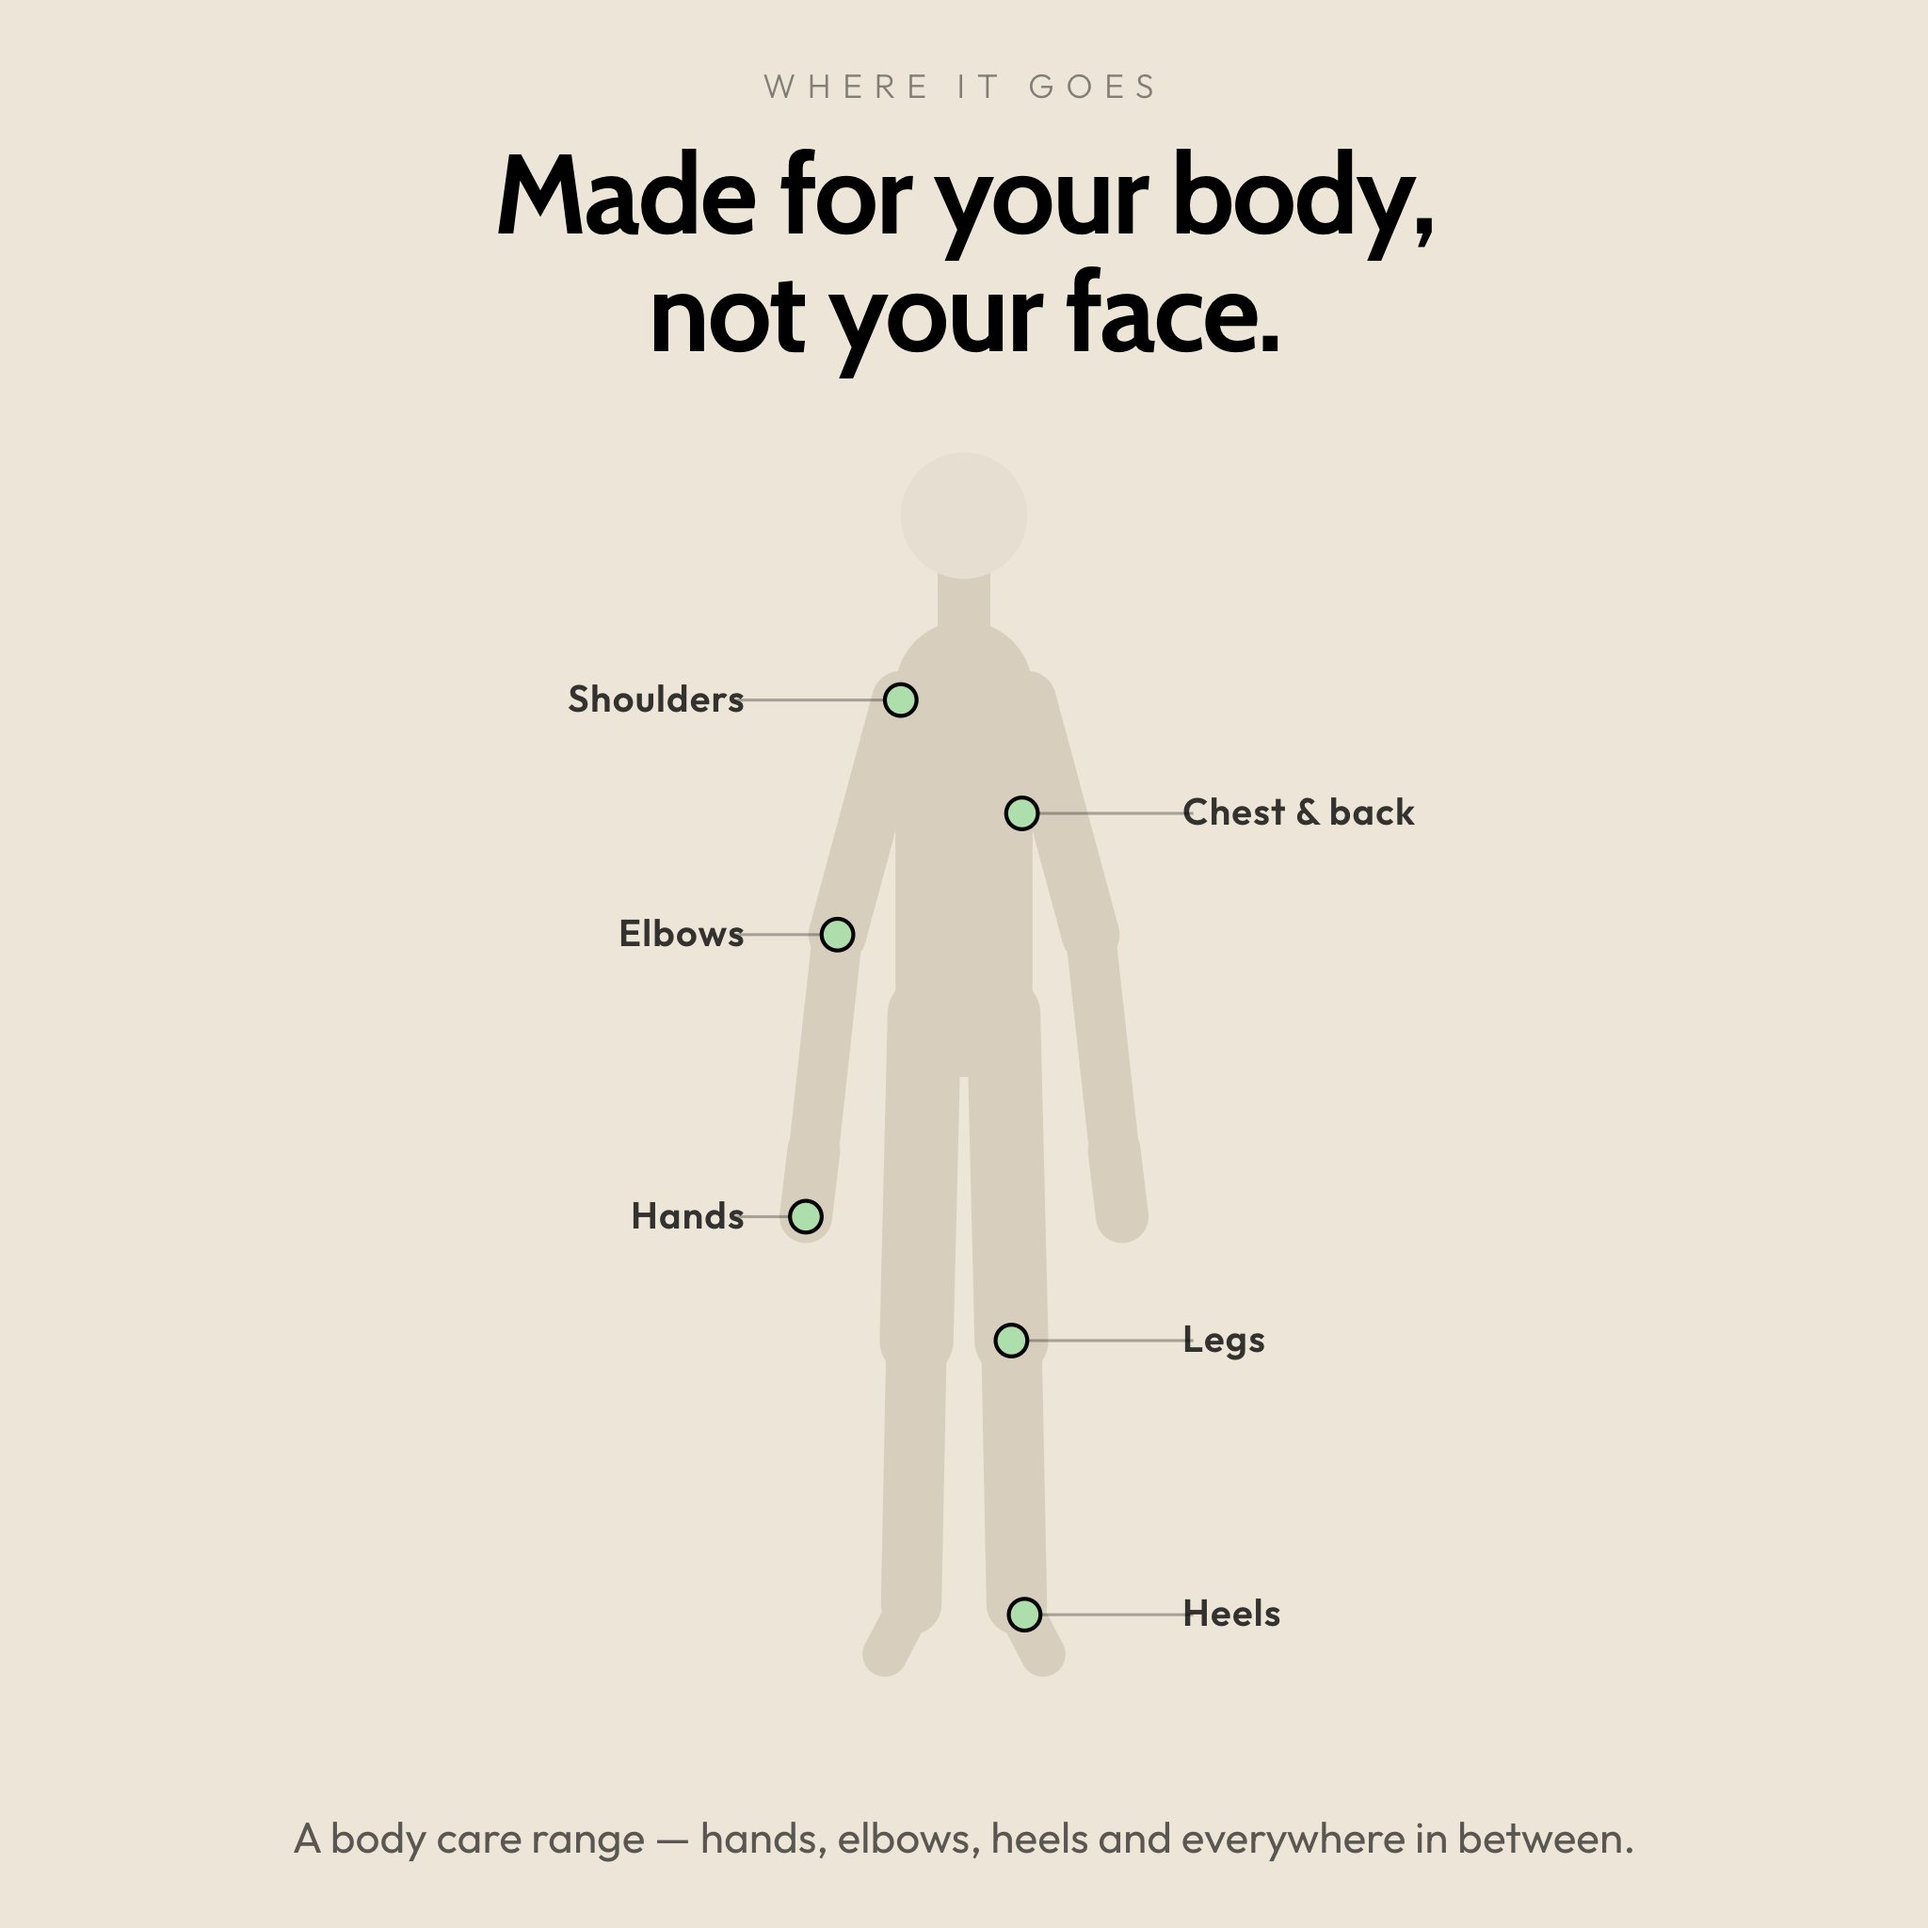
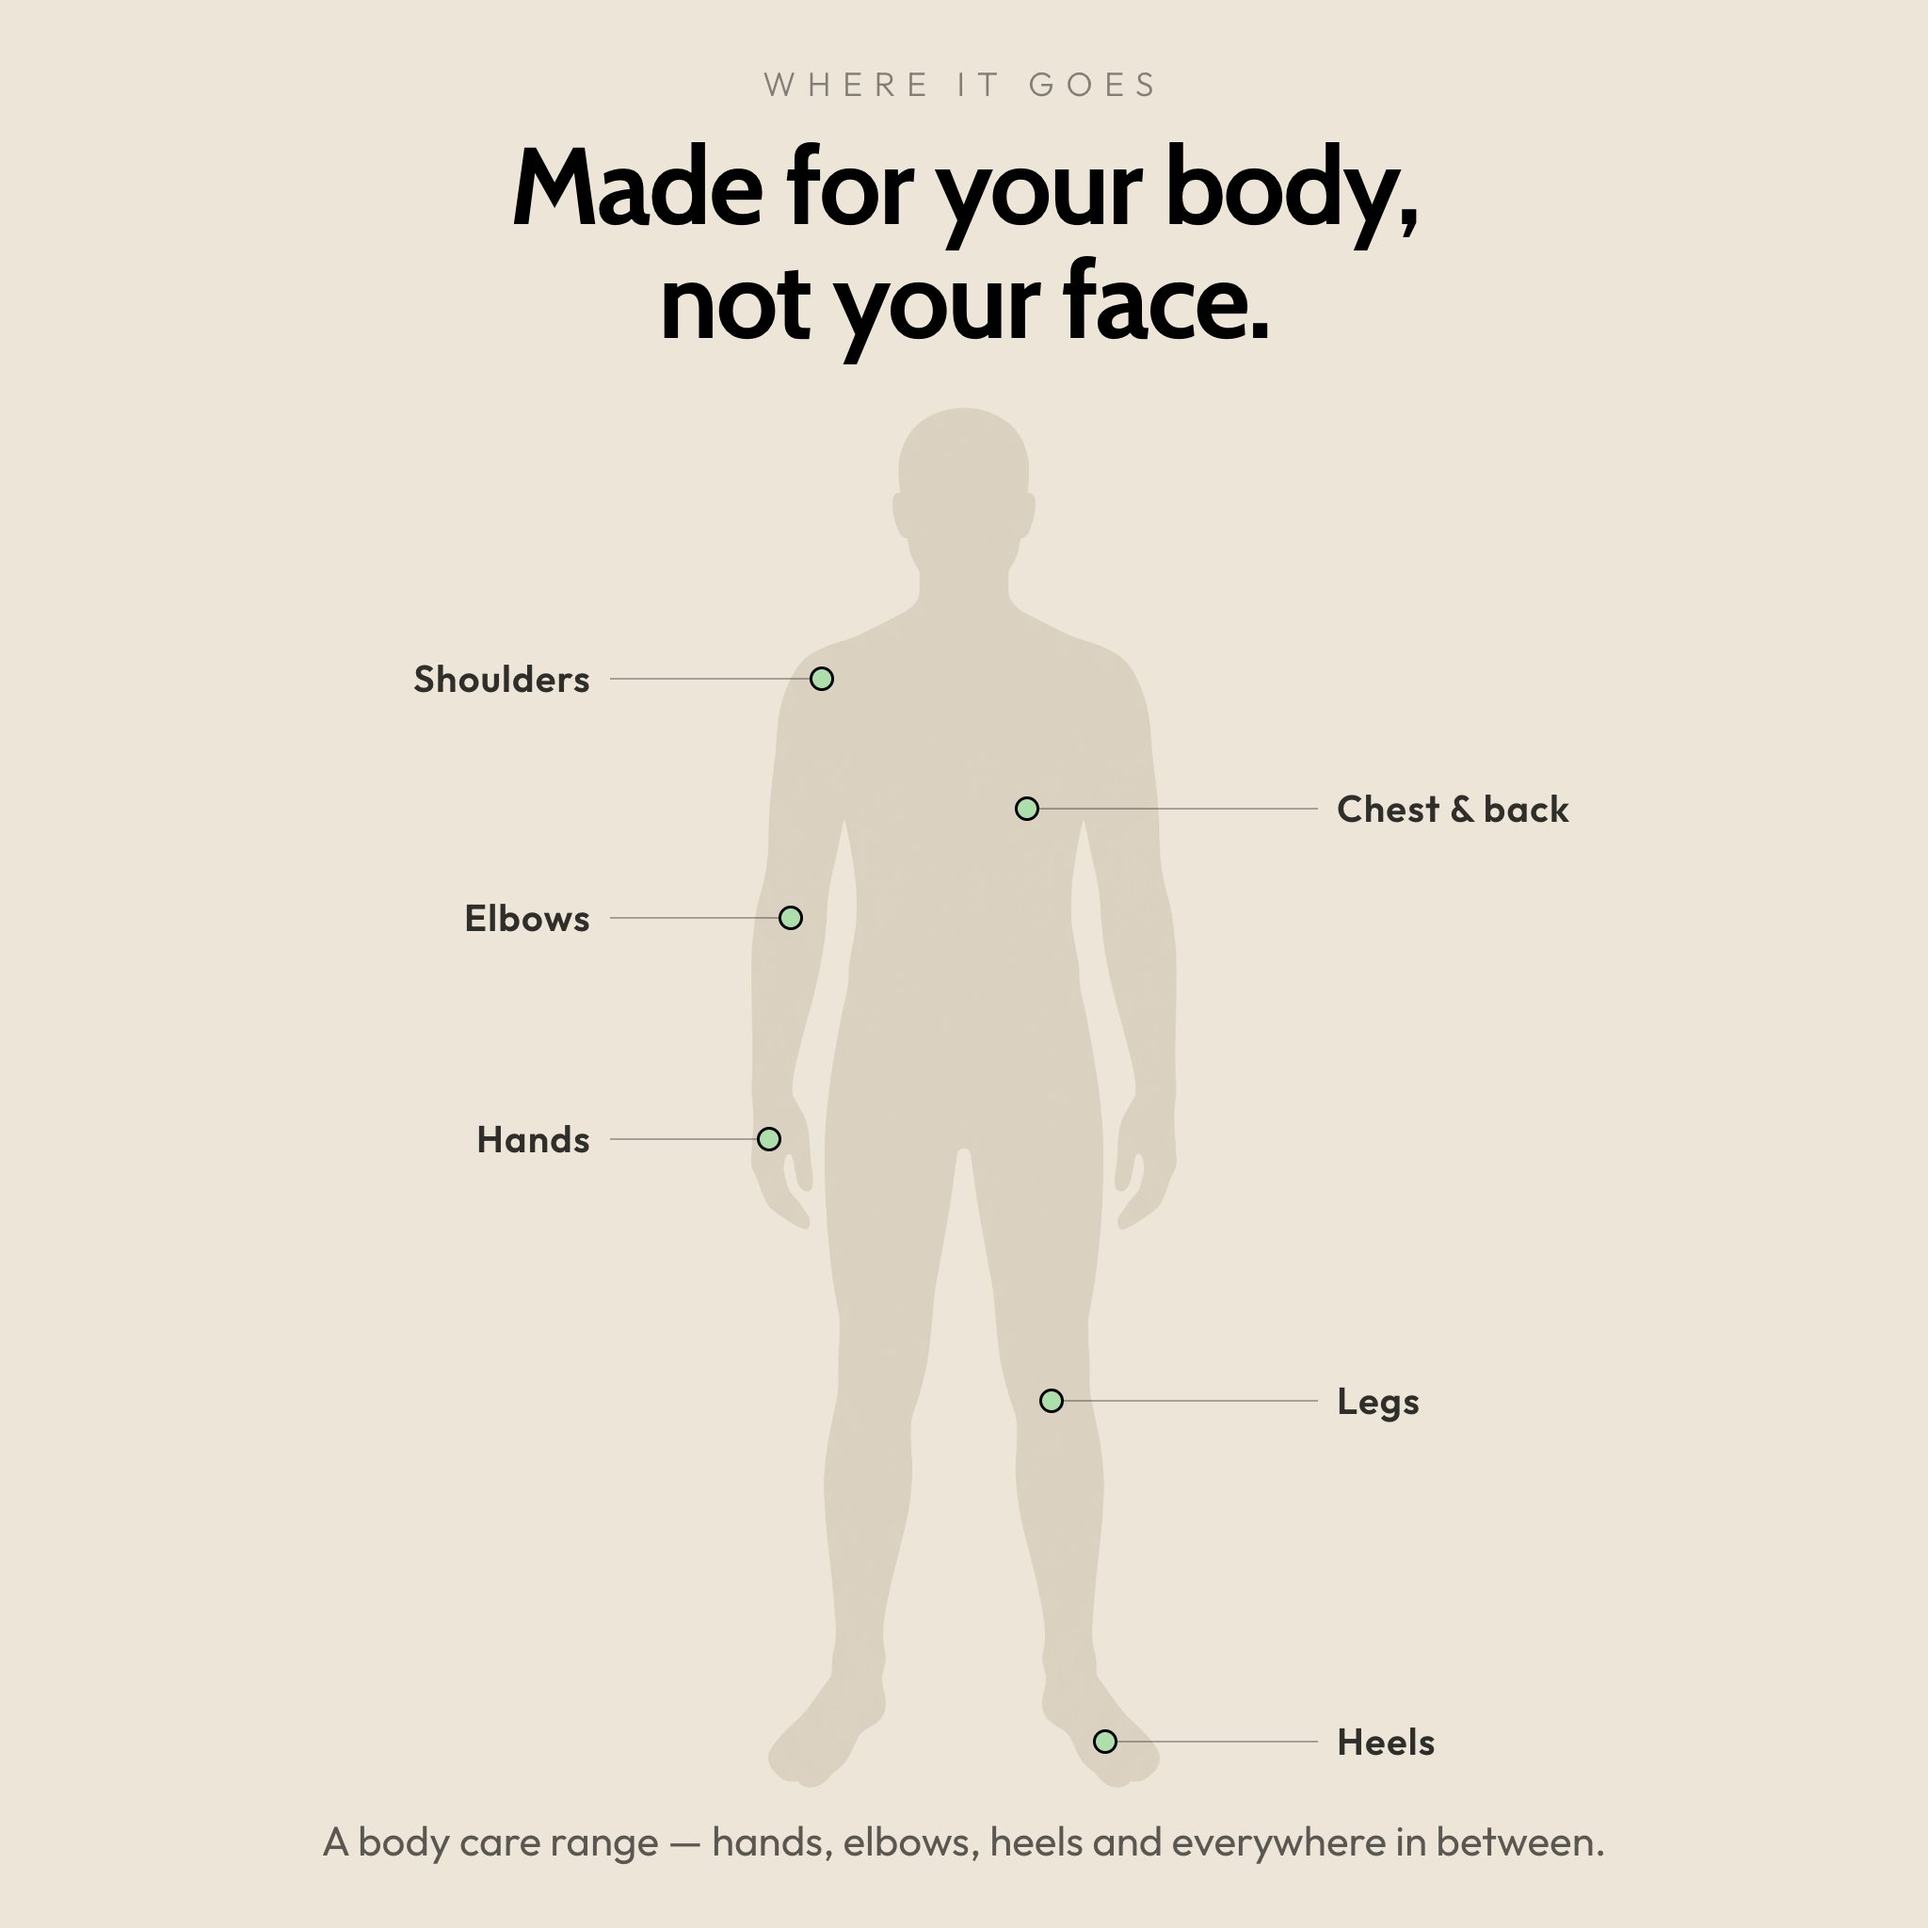
feat(bundles): generate the frame 7 silhouette instead of drawing it
Sean rejected the hand-drawn figure and he was right — it was a stick figure, not
a diagram. Three SVG attempts failed the same way: bézier outlines, then
round-capped strokes between joint coordinates. Both left the arms merged into the
torso with the "Hands" marker pointing at what read as a hip.

The figure is now generated. It depicts no product, so media plan §3 permits it and
there is nothing to ground it in — generate-frame.mjs previously refused any spec
without reference photography, which is right for anything showing the goods and
wrong for a diagram, so that guard now takes an explicit depictsProduct: false
rather than treating an empty reference list as acceptable. Supplying both is an
error, so the omission can never be a silent oversight.

What generating cost was annotation: a generated figure cannot be marked up from
memory. Paid back by measuring rather than guessing. The silhouette is keyed to
alpha and its mask scanned row by row — at 37% of figure height it resolves into
three runs (left arm, torso, right arm), which is where the elbows are; at 72% into
two runs, the legs; at 97% into two feet. Each anchor is the centre of the relevant
run, stored as a fraction of the bounding box so it survives any display size.
Every marker now lands on real anatomy.

Keyed with alpha taken from inverted luminance rather than a threshold, so the
silhouette keeps its antialiased edge instead of a 1-bit stair, and recoloured to
the brand figure tone.
[…]

diff --git a/docs/bundle-media-plan.md b/docs/bundle-media-plan.md
@@ -340,22 +340,31 @@ Our side of the count, read from `config/ingredients.json` on 2026-08-01, so the
 
 What the frame may honestly claim is what the lander already claims: **no synthetic fragrance, no petrolatum, no dimethicone, no lanolin, no parabens, no mineral oil.** Lead with those absences and the count, not with an unqualified "clean".
 
-**Frame 7 — built 2026-08-01, not yet uploaded.** `frame-07-body-not-face.mjs`. An SVG
-pictogram: limbs are round-capped strokes between named joint coordinates, so a zone
-marker sits exactly on the elbow or the heel. Drawn rather than generated because a
-generated figure cannot be annotated to a coordinate — the first pass used freehand
-béziers, the arms merged into the torso, and the "Hands" marker landed on what read
-as a hip.
+**Frame 7 — built 2026-08-01, not yet uploaded.** `frame-07-body-not-face.mjs`.
+
+**The figure is generated, not drawn.** Three hand-built SVG attempts failed the same
+way — bézier outlines, then round-capped strokes — the arms merged into the torso and
+the "Hands" marker landed on what read as a hip. It looked like a stick figure, not a
+diagram. `gen-body-silhouette.mjs` produces a real anatomical silhouette instead; it
+depicts no product, so §3 permits generating it, and `depictsProduct: false` records
+that the missing references are deliberate rather than an oversight.
+
+**The markers are measured, not eyeballed** — which is what generating cost us, and
+how it was paid back. The silhouette is keyed to alpha and its mask scanned row by
+row: at 37% of figure height it resolves into three runs (left arm, torso, right arm),
+which is where the elbows are; at 72% into two runs, the legs; at 97% into two feet.
+Each anchor is the centre of the relevant run, stored as a fraction of the bounding
+box so it holds at any display size.
 
 Two decisions worth keeping:
 
-- **The head is drawn unmarked, not crossed out.** A ✗ over a face argues the belief
-  and implies harm, which is the opposite of this frame's job. Absence of a marker is
-  the entire point.
-- **`verify()` refuses to build if the copy drifts into a defence.** It fails on
+- **The head is unmarked, not crossed out.** A ✗ over a face argues the belief and
+  implies harm, which inverts the frame's job. Absence of a marker is the point.
+- **`verify()` refuses to build if the copy drifts into a defence** — it fails on
   "comedogenic", "clog", "pore", "safe", "hypoallergenic", "acne" and similar.
   Exercised: "Non-comedogenic", "Safe for sensitive skin" and "Won't clog pores" all
-  block. The frame may only say where the product goes.
+  block. This is the frame most likely to attract a helpful edit that turns it into a
+  claim.
 
 Zone labels are the lander's own How to Use wording. The frame shows no product, so
 its content is scent-agnostic — but under the alt-text scoping convention it still
